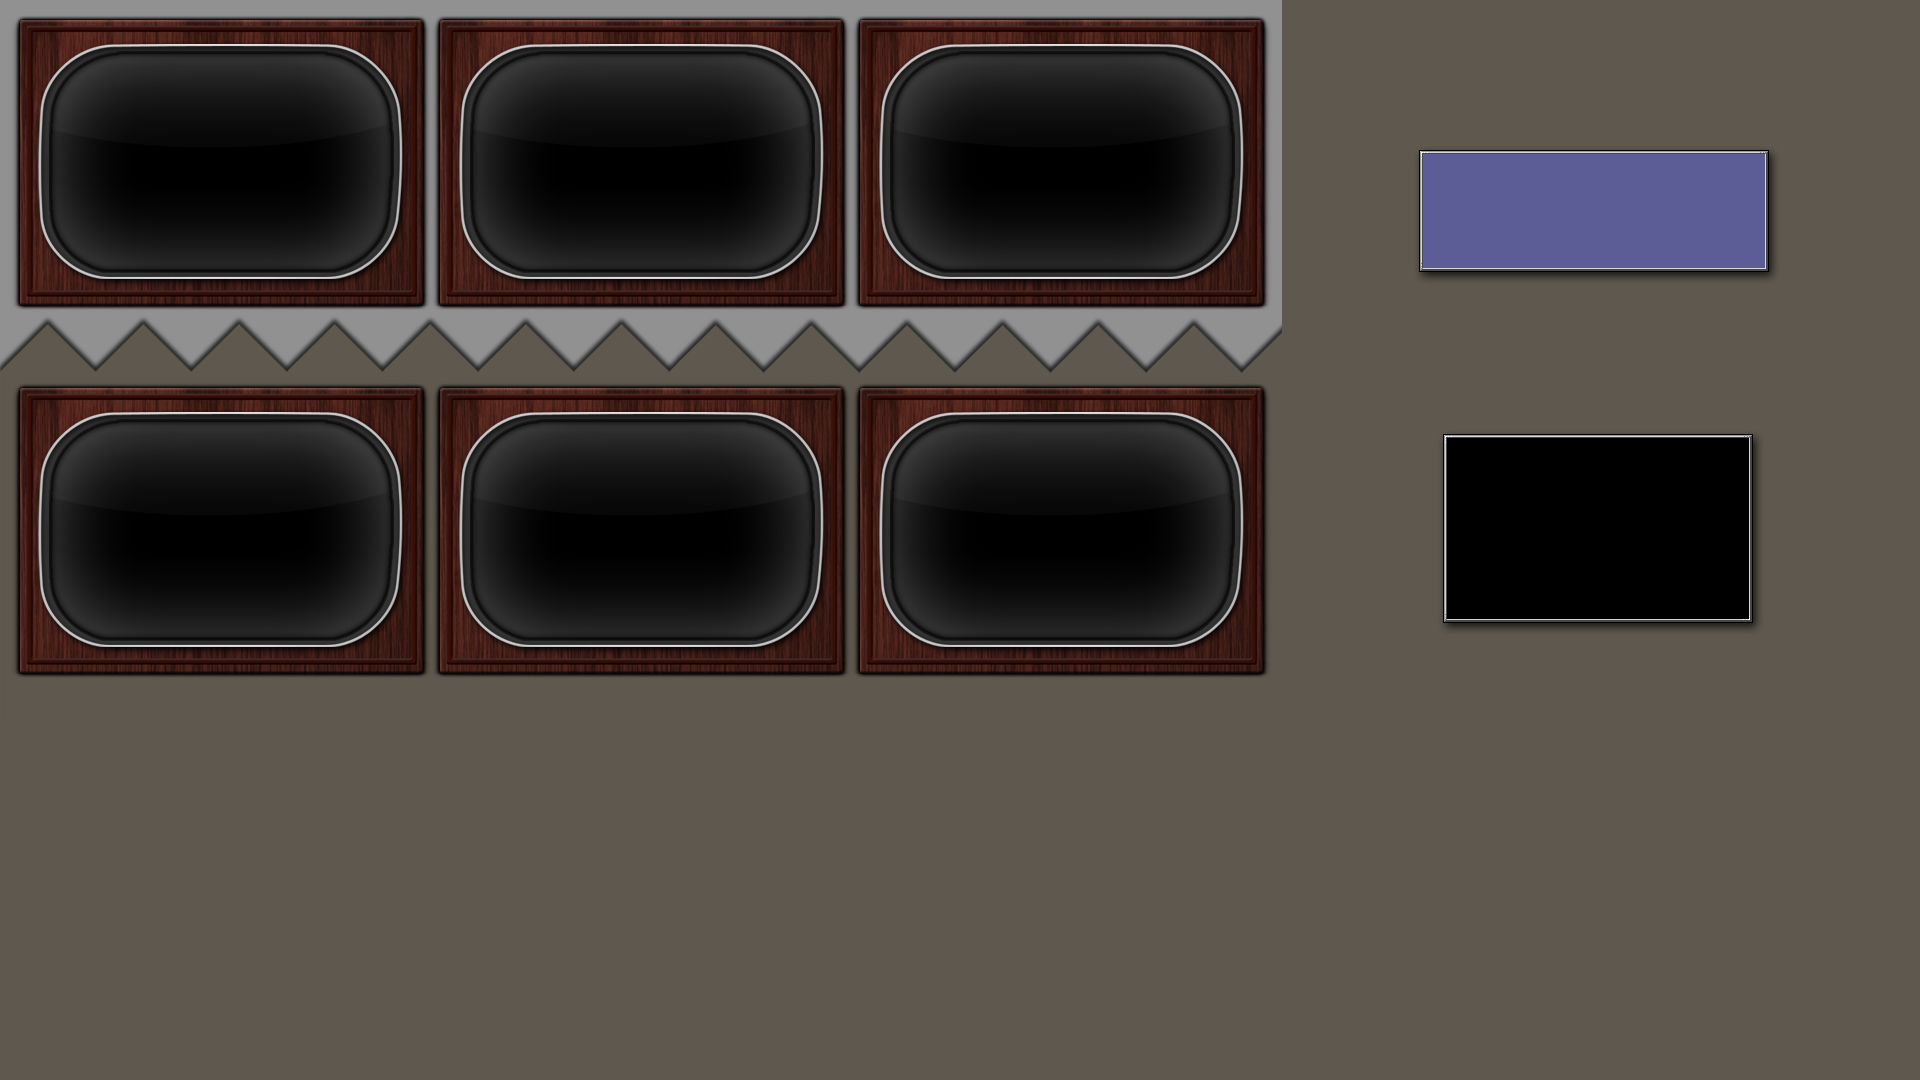
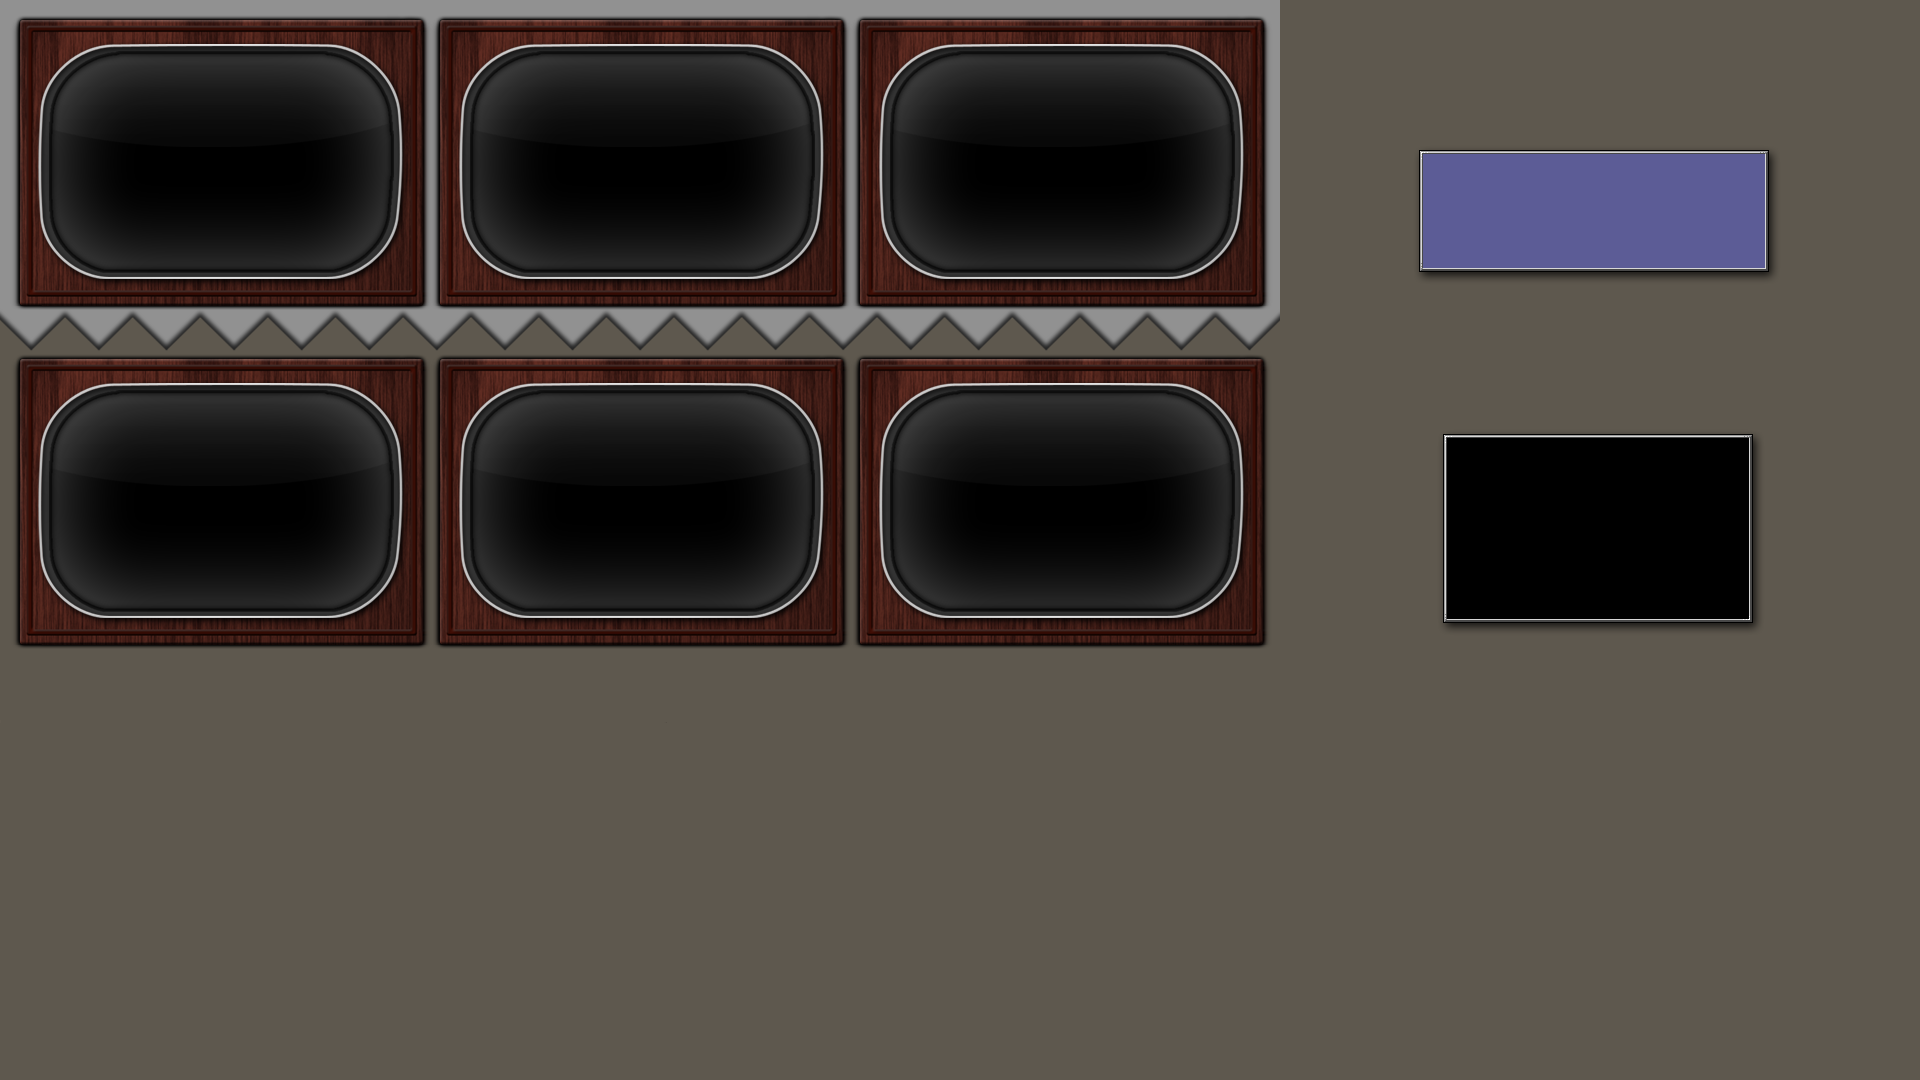
Updated TV bank
Bottom row of TVs moved up, update image and position of lit TV elements

Changed region(s): [[0.0, 0.275, 0.6875, 0.4583], [0.0, 0.4889, 0.6562, 0.6417]]

diff --git a/vgcWall.html b/vgcWall.html
@@ -12,7 +12,7 @@
 			}
 			#tv3, #tv4, #tv5 {
 				position: absolute;
-				top: 415px;
+				top: 386px;
 			}
 			#tv0, #tv3 {
 				left: 41px;
